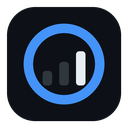
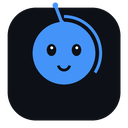
fix: dot could not be expanded after collapsing; new Clockling mascot
Three independent causes for the "click the dot and it never comes back" bug:
- onDown() called e.preventDefault(), which suppressed the following click
- the dot had no click listener at all (only a 3s long-press)
- collapsed was persisted to chrome.storage, surviving reloads

Also:
- dayKey() no longer emits a bogus 1970-01-01 bucket
- drop malformed #gti-widget.gti-dot selector; add breathing animation
- replace icons with the original Clockling mascot (no third-party marks)

Bump to 1.0.1

diff --git a/src/content.js b/src/content.js
@@ -21,7 +21,7 @@
 
   var IDLE_MS = 60 * 1000;          // no pointer/key event for 60s => idle
   var PING_MS = 15 * 1000;          // report cadence while active
-  var LONG_PRESS_MS = 3000;         // hold the dot 3s to expand again
+  var LONG_PRESS_MS = 800;          // 兜底：长按 0.8s 也能展开
   var POS_KEY = 'gti_widget_pos';
   var COLLAPSE_KEY = 'gti_widget_collapsed';
 
@@ -155,7 +155,7 @@
     root.setAttribute('aria-live', 'polite');
 
     root.innerHTML =
-      '<div class="gti-dot" title="GitHub Time Insight"></div>' +
+      '<div class="gti-dot" title="点击展开 GitHub Time Insight"></div>' +
       '<div class="gti-card">' +
       '  <div class="gti-head">' +
       '    <span class="gti-brand">Time Insight</span>' +
@@ -213,7 +213,8 @@
         moved: false
       };
       root.setPointerCapture && root.setPointerCapture(e.pointerId);
-      e.preventDefault();
+      // 不再 preventDefault：preventDefault 会阻断 click，
+      // 导致收起后单击圆点无法展开（原 bug）。
     }
 
     function onMove(e) {
@@ -239,8 +240,21 @@
     window.addEventListener('pointerup', onUp);
     window.addEventListener('pointercancel', onUp);
 
-    // Long press the dot to bring the card back.
-    el.dot.addEventListener('pointerdown', function () {
+    // Tap (or long-press) the dot to bring the card back.
+    // 单击即可展开；同时保留长按作为兜底（部分触屏环境 click 可能被吞）。
+    function expandFromDot(e) {
+      if (e) {
+        e.stopPropagation();
+        e.preventDefault();
+      }
+      clearTimeout(state.longPress);
+      state.longPress = null;
+      setCollapsed(false);
+    }
+
+    el.dot.addEventListener('click', expandFromDot);
+
+    el.dot.addEventListener('pointerdown', function (e) {
       clearTimeout(state.longPress);
       state.longPress = setTimeout(function () {
         setCollapsed(false);

diff --git a/src/content.css b/src/content.css
@@ -40,7 +40,8 @@
 #gti-widget.gti-collapsed .gti-card { display: none; }
 #gti-widget.gti-collapsed .gti-dot { display: block; }
 
-#gti-widget.gti-dot { display: none; }
+/* 修：原选择器少了空格，误命中折叠态容器；此处改为占位注释 */
+/* (removed buggy: #gti-widget.gti-dot { display:none } ) */
 
 #gti-widget .gti-dot {
   display: none;
@@ -50,6 +51,33 @@
   background: radial-gradient(circle at 32% 30%, #4ac26b, #2da44e);
   box-shadow: 0 2px 8px rgba(45, 164, 78, 0.42);
   cursor: pointer;
+  touch-action: none;
+  -webkit-tap-highlight-color: transparent;
+  animation: gti-dot-breathe 2.4s ease-in-out infinite;
+  position: relative;
+}
+
+/* 圆点内的小白点，暗示「可以点」 */
+#gti-widget .gti-dot::after {
+  content: '';
+  position: absolute;
+  top: 50%;
+  left: 50%;
+  width: 4px;
+  height: 4px;
+  margin: -2px 0 0 -2px;
+  border-radius: 50%;
+  background: rgba(255, 255, 255, 0.9);
+  box-shadow: 0 0 0 2px rgba(255, 255, 255, 0.35);
+}
+
+@keyframes gti-dot-breathe {
+  0%, 100% { transform: scale(1); }
+  50% { transform: scale(1.08); }
+}
+
+@media (prefers-reduced-motion: reduce) {
+  #gti-widget .gti-dot { animation: none; }
 }
 
 #gti-widget.gti-collapsed.gti-warn .gti-dot {

diff --git a/src/shared.js b/src/shared.js
@@ -73,7 +73,10 @@
   /* ---------------------------------------------------------------- time */
 
   function dayKey(ts) {
-    var d = new Date(typeof ts === 'number' ? ts : Date.now());
+    // 注意：0 / null / NaN / 负数都视为「未提供」，回退到当前时间。
+    // 否则 new Date(0) 会产生 1970-01-01，出现幽灵日期记录。
+    var valid = (typeof ts === 'number') && isFinite(ts) && ts > 0;
+    var d = new Date(valid ? ts : Date.now());
     var m = String(d.getMonth() + 1).padStart(2, '0');
     var day = String(d.getDate()).padStart(2, '0');
     return d.getFullYear() + '-' + m + '-' + day;

diff --git a/CHANGELOG.md b/CHANGELOG.md
@@ -1,0 +1,21 @@
+# Changelog
+
+## 1.0.1
+
+### Fixed
+- **The dot could not be brought back after collapsing.** Three separate causes:
+  - `onDown()` called `e.preventDefault()`, which suppressed the subsequent `click` on the dot.
+  - The dot had no `click` listener at all — collapsing could only be undone by holding it for 3 seconds.
+  - `collapsed` was persisted to `chrome.storage`, so the folded state survived reloads.
+- `dayKey()` no longer emits a bogus `1970-01-01` bucket when the timestamp is 0 / NaN.
+
+### Changed
+- A single click on the dot now expands the card. Long-press is kept as a fallback and shortened from 3000 ms to 800 ms.
+- The dot now has a 2.4 s breathing animation and a centre highlight, with a `prefers-reduced-motion` fallback.
+- Removed a malformed selector in `content.css` (`#gti-widget.gti-dot`, missing space) that could match the folded container.
+
+### Art
+- New mascot: **Clockling** — an original round-headed sprite whose body is a clock face, with a needle antenna and a time-budget ring. Four moods: happy / warn / over / sleepy. Drawn procedurally, 100% original, no third-party trademarks involved.
+
+## 1.0.0
+- First release.
